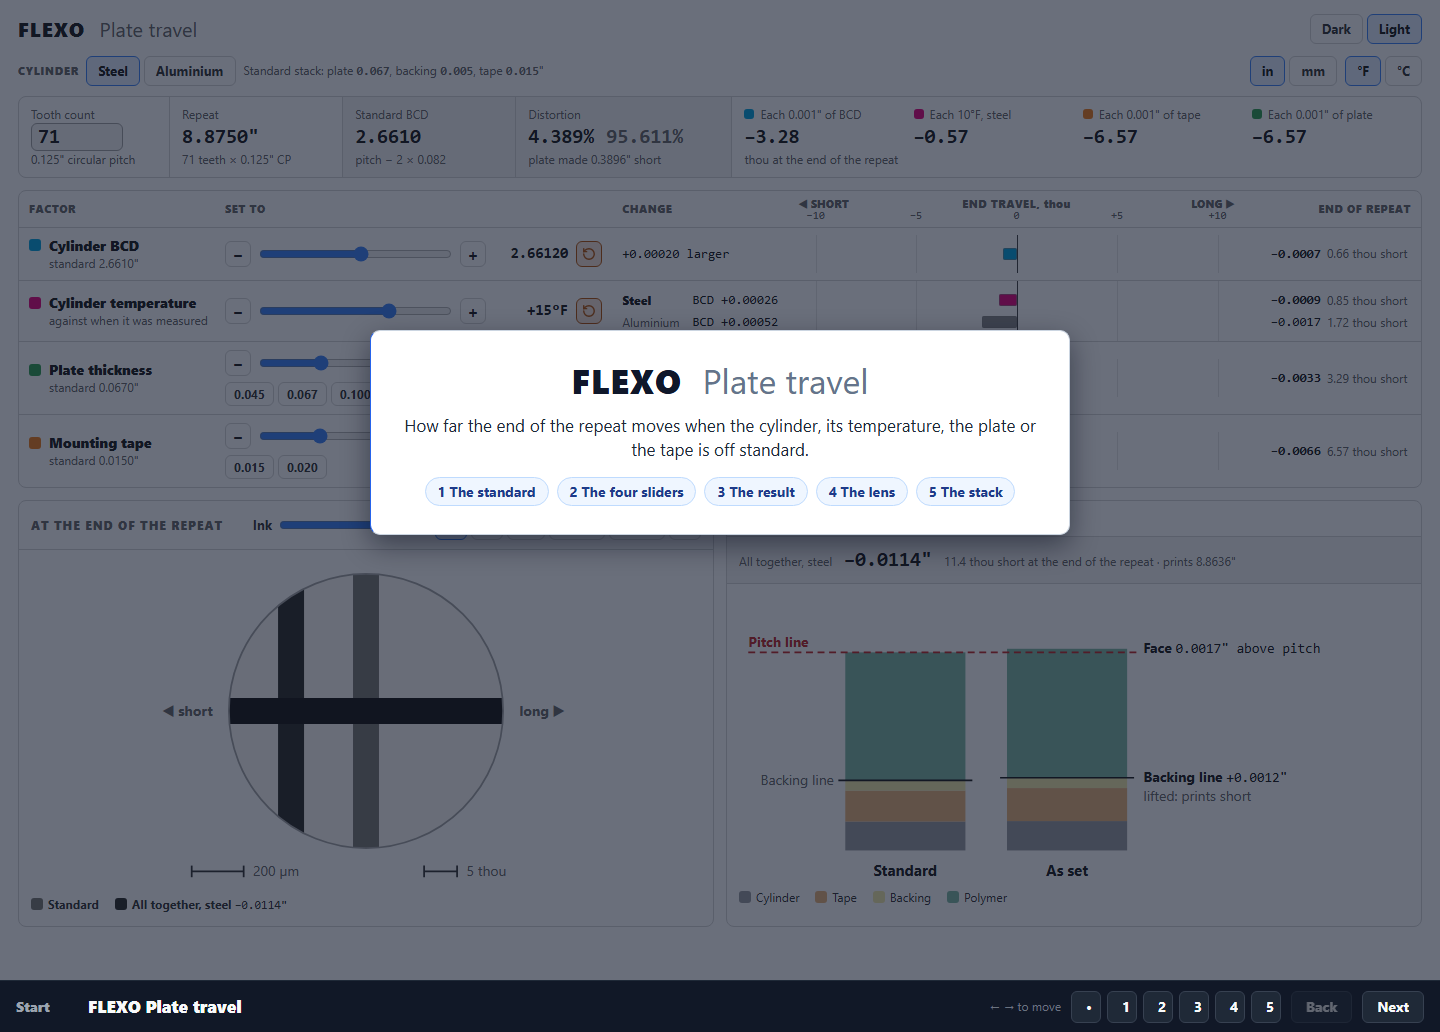
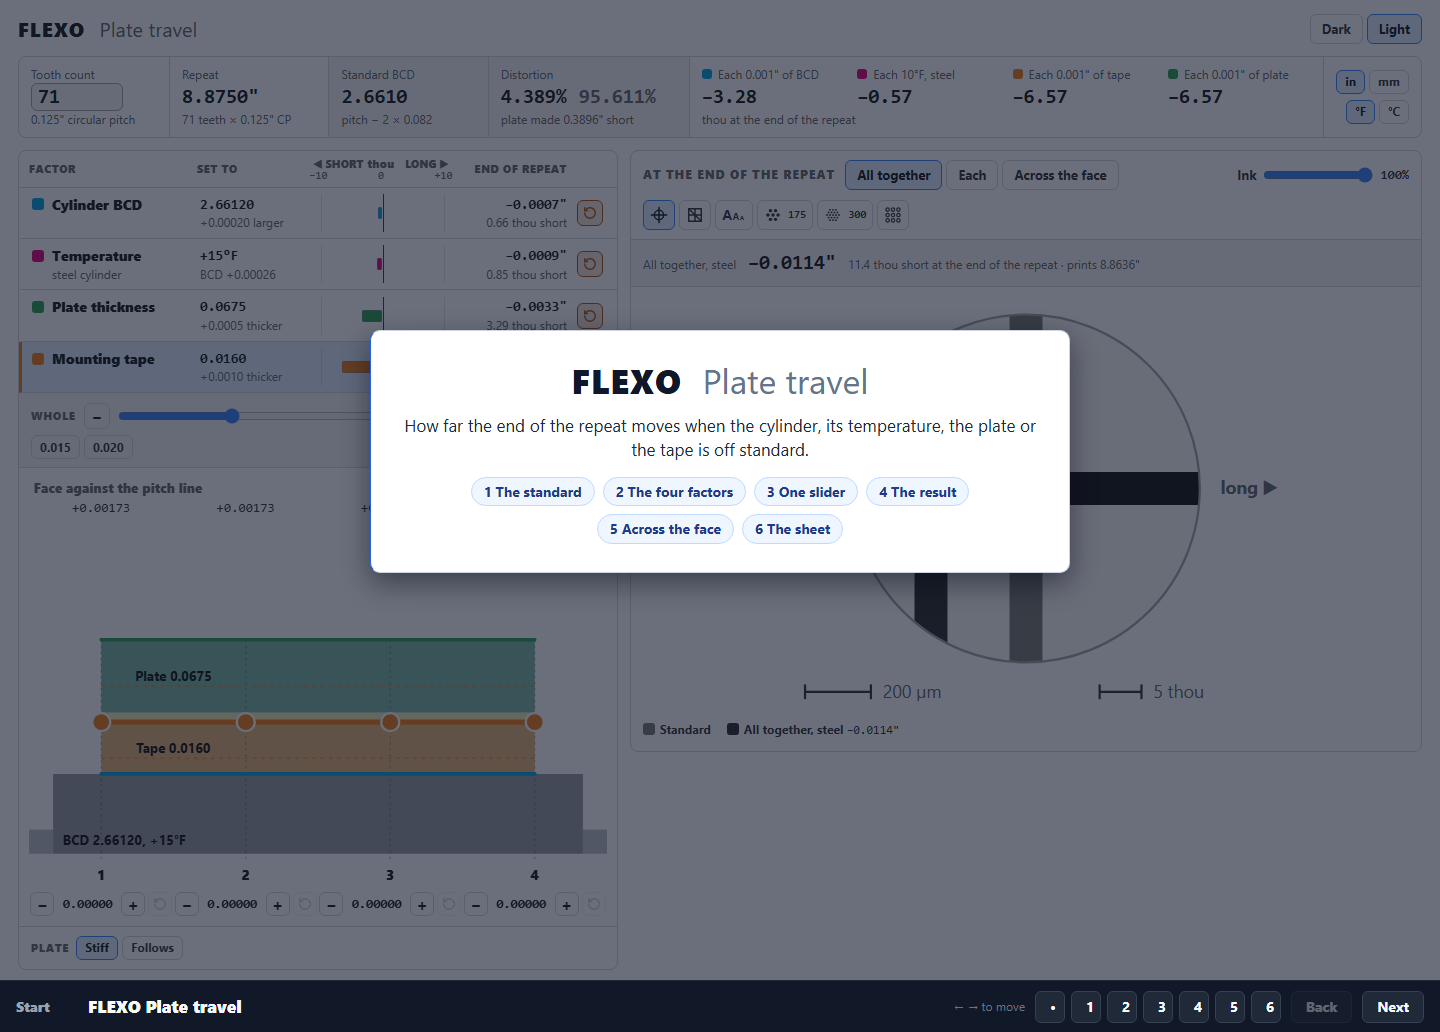
Demo and README for the one-control layout
The demo is reshot on the new simulator: seven stops over two screenshots,
one with the four changes all together and one across the face. The README
describes the factor list, the one slider, the cut through the cylinder and
the three result views, and adds what the across-the-face figures assume.

diff --git a/FLEXO_PLATE_DRIFT_DEMO.html b/FLEXO_PLATE_DRIFT_DEMO.html
@@ -5,16 +5,18 @@
 <title>FLEXO Plate travel: demo</title>
 <meta name="viewport" content="width=device-width, initial-scale=1">
 <style>
-  /* A presentation layer over one screenshot of FLEXO_PLATE_DRIFT.html (light,
-     1440 x 980). Each stop dims the page, leaves one part lit, and explains it
-     in a few bubbles. Everything is placed in the screenshot's own pixels and
-     the whole stage is scaled to fit the window. */
+  /* A presentation layer over two screenshots of FLEXO_PLATE_DRIFT.html (light,
+     1440 x 980): one with the four changes all together, one across the face.
+     Each stop dims the page, leaves one part lit, and explains it in a few
+     bubbles. Everything is placed in the screenshots' own pixels and the whole
+     stage is scaled to fit the window. */
   * { box-sizing: border-box; }
   html, body { height: 100%; }
   body { margin: 0; background: #0b1220; color: #e5e7eb; font: 14px/1.4 "Segoe UI", system-ui, sans-serif; overflow: hidden; }
   #fit { position: absolute; left: 0; right: 0; top: 0; bottom: 52px; }
   #stage { position: absolute; left: 0; top: 0; width: 1440px; height: 980px; transform-origin: 0 0; background: #ffffff; overflow: hidden; }
   #stage img, #stage svg { position: absolute; left: 0; top: 0; width: 1440px; height: 980px; display: block; }
+  #stage img[hidden] { display: none; }
 
   .note { position: absolute; padding: 10px 14px 12px 16px; border-radius: 10px; background: #ffffff; color: #1f2937; border: 1px solid #cbd5e1; border-left: 6px solid var(--c, #2563eb); box-shadow: 0 10px 28px rgba(2, 6, 23, .45); }
   .note h3 { margin: 0 0 3px; font-size: 16px; font-weight: 800; color: #0f172a; }
@@ -43,7 +45,8 @@
 <body>
 <div id="fit">
   <div id="stage">
-    <img src="FLEXO_PLATE_DRIFT_DEMO_files/screen-light.png" alt="FLEXO Plate travel, in light mode, with a 71 tooth example set">
+    <img id="shot-all" src="FLEXO_PLATE_DRIFT_DEMO_files/screen-light.png" alt="FLEXO Plate travel, in light mode, with a 71 tooth example set and the four changes all together">
+    <img id="shot-face" src="FLEXO_PLATE_DRIFT_DEMO_files/screen-face.png" alt="The same example across the face, with the tape 0.001 inch thicker at reading 4" hidden>
     <svg id="veil" viewBox="0 0 1440 980" aria-hidden="true"></svg>
     <div id="notes"></div>
   </div>
@@ -59,7 +62,8 @@
 </div>
 
 <script>
-// Everything is in the screenshot's pixels (1440 x 980).
+// Everything is in the screenshots' pixels (1440 x 980).
+//   face   true for a stop that stands on the across-the-face screenshot
 //   lit    the parts left bright: [x, y, width, height]
 //   notes  the bubbles: where each sits, its colour, and the points it arrows to
 //          (and, rarely, the point an arrow leaves from)
@@ -72,54 +76,70 @@ const STEPS = [
     notes: [{ x: 370, y: 330, w: 700, title: true,
       h: 'FLEXO <span>Plate travel</span>',
       p: 'How far the end of the repeat moves when the cylinder, its temperature, the plate or the tape is off standard.',
-      list: ['1 The standard', '2 The four sliders', '3 The result', '4 The lens', '5 The stack'] }],
+      list: ['1 The standard', '2 The four factors', '3 One slider', '4 The result', '5 Across the face', '6 The sheet'] }],
   },
   {
     name: 'The standard',
-    lit: [[12, 48, 1416, 136]],
+    lit: [[12, 50, 1416, 94]],
     notes: [
-      { x: 30, y: 216, w: 252, h: 'Tooth count', p: 'Type the gear’s tooth count in its box. Teeth × pitch is the repeat: 71 × 0.125" = <b>8.875"</b>.', to: [[140, 170]] },
-      { x: 300, y: 216, w: 270, h: 'Cylinder type', p: 'Steel or aluminium. It decides how much the cylinder grows with heat.', from: [372, 216], to: [[232, 88]] },
-      { x: 610, y: 216, w: 336, h: 'The standard', p: 'The standard plate, backing and tape give the <b>Standard BCD</b>: the bare cylinder that prints the repeat exactly. <b>Distortion</b> is how much shorter the plate is made: 4.389% off, so 95.611% of the repeat.', to: [[452, 140], [702, 140]] },
-      { x: 964, y: 216, w: 440, h: 'What one step is worth', p: 'One box, four figures: one small change of each factor, in thousandths of an inch at the end of the repeat, in the sliders’ colours. <b>Minus prints short.</b>', to: [[1040, 170]] },
+      { x: 30, y: 216, w: 262, h: 'Tooth count', p: 'Type the gear’s tooth count in its box. Teeth × pitch is the repeat: 71 × 0.125" = <b>8.875"</b>.', to: [[94, 138]] },
+      { x: 310, y: 216, w: 350, h: 'The standard', p: 'The standard plate, backing and tape give the <b>Standard BCD</b>: the bare cylinder that prints the repeat exactly. <b>Distortion</b> is how much shorter the plate is made: 4.389% off, so 95.611% of the repeat.', to: [[408, 138], [588, 138]] },
+      { x: 678, y: 216, w: 420, h: 'What one step is worth', p: 'One box, four figures: one small change of each factor, in thousandths of an inch at the end of the repeat, in the factors’ colours. <b>Minus prints short.</b>', to: [[1000, 138]] },
+      { x: 1116, y: 216, w: 296, h: 'Units', p: 'Inches or millimetres, °F or °C. The whole page reads in the units picked here.', to: [[1372, 138]] },
     ],
   },
   {
-    name: 'The four sliders',
-    lit: [[217, 232, 394, 256]],
+    name: 'The four factors',
+    lit: [[12, 144, 612, 255]],
     notes: [
-      { x: 664, y: 132, w: 430, c: BCD, h: 'Cylinder BCD', p: 'The bare cylinder as measured. Larger than standard lifts the plate off centre, so the repeat prints short. Here <b>+0.0002"</b> costs 0.66 thou.', to: [[608, 254]] },
-      { x: 664, y: 256, w: 430, c: TEMP, h: 'Cylinder temperature', p: 'Warmer than when it was measured. Metal grows with heat, aluminium about twice as much as steel. Here <b>+15°F</b> costs 0.85 thou on steel.', to: [[608, 311]] },
-      { x: 664, y: 380, w: 430, c: PLATE, h: 'Plate thickness', p: 'The plate on the cylinder. Art is made short for its plate, so a thicker plate carries shorter art. Here <b>+0.0005"</b> costs 3.29 thou.', to: [[608, 363]] },
-      { x: 664, y: 504, w: 430, c: TAPE, h: 'Mounting tape', p: 'The tape under the plate. Thicker tape lifts the plate just as a larger cylinder does. Here <b>+0.001"</b> costs 6.57 thou.', to: [[608, 436]] },
-      { x: 150, y: 520, w: 400, c: AMBER, h: 'Nudge, jump, reset', p: '<b>−</b> and <b>+</b> move one step. The buttons under a slider jump to common thicknesses. The amber button puts that slider back to standard.', to: [[589, 453]] },
+      { x: 720, y: 120, w: 620, c: BCD, h: 'Cylinder BCD', p: 'The bare cylinder as measured. Larger than standard lifts the plate off centre, so the repeat prints short. Here <b>+0.0002"</b> costs 0.66 thou.', to: [[616, 213]] },
+      { x: 720, y: 218, w: 620, c: TEMP, h: 'Temperature', p: 'Warmer than when it was measured. Metal grows with heat, aluminium about twice as much as steel. Here <b>+15°F</b> costs 0.85 thou on steel.', to: [[616, 264]] },
+      { x: 720, y: 316, w: 620, c: PLATE, h: 'Plate thickness', p: 'The plate on the cylinder. Art is made short for its plate, so a thicker plate carries shorter art. Here <b>+0.0005"</b> costs 3.29 thou.', to: [[616, 316]] },
+      { x: 720, y: 414, w: 620, c: TAPE, h: 'Mounting tape', p: 'The tape under the plate. Thicker tape lifts the plate just as a larger cylinder does. Here <b>+0.001"</b> costs 6.57 thou.', to: [[616, 367]] },
+      { x: 120, y: 450, w: 440, h: 'Reading a row', p: 'What it is set to, then a bar on one scale shared by all four: left of the line prints short, right prints long. Last, how far the end of the repeat lands from where it should.', to: [[248, 394], [382, 394], [518, 394]] },
+    ],
+  },
+  {
+    name: 'One slider',
+    lit: [[12, 337, 612, 136]],
+    notes: [
+      { x: 60, y: 196, w: 400, c: TAPE, h: 'In hand', p: 'Click a row to take that factor in hand. The row lights up and the slider under the list becomes its slider. Here it is the tape.', to: [[104, 341]] },
+      { x: 664, y: 300, w: 440, c: AMBER, h: 'Reset', p: 'The amber button at the end of a row puts that factor back to standard, across the face as well.', to: [[607, 367]] },
+      { x: 120, y: 520, w: 460, h: 'One slider, with jumps', p: '<b>−</b> and <b>+</b> move one step. The buttons under the slider jump to common thicknesses. With temperature in hand they pick steel or aluminium.', to: [[82, 464], [303, 432]] },
     ],
   },
   {
     name: 'The result',
-    lit: [[604, 188, 826, 302]],
+    lit: [[624, 144, 804, 614]],
     notes: [
-      { x: 170, y: 236, w: 380, h: 'Change', p: 'What the slider did against standard: how much larger, warmer or thicker. Temperature shows both metals; the bold one is the cylinder type chosen.', to: [[610, 311]] },
-      { x: 640, y: 522, w: 400, h: 'One scale for all four', p: 'Every bar shares the scale above. Left of the line prints short, right prints long. The longest bar is the biggest mover: here, the tape.', to: [[951, 464]] },
-      { x: 1070, y: 522, w: 345, h: 'End of repeat', p: 'The travel in inches, then in thousandths: how far the end of the repeat lands from where it should.', to: [[1330, 476]] },
+      { x: 770, y: 24, w: 430, h: 'Three views', p: '<b>All together</b> is the four changes at once. <b>Each</b> shows them one at a time, in their colours. <b>Across the face</b> comes next.', to: [[980, 159]] },
+      { x: 150, y: 150, w: 420, h: 'Test patterns', p: 'Six targets to read the travel on: crosshair, register mark, micro print, two rosettes and micro circles. <b>Ink</b> fades the black so the standard shows through.', to: [[640, 215]] },
+      { x: 150, y: 290, w: 420, h: 'All together', p: 'The four changes at once, for the cylinder type chosen. This repeat prints <b>8.8636"</b> where 8.8750" was wanted.', from: [570, 318], to: [[640, 264]] },
+      { x: 150, y: 420, w: 420, h: 'Under the glass', p: '<b>Grey</b> is where the mark should land. <b>Black</b> is where it lands with all four changes together: 11.4 thou short here.', to: [[912, 420]] },
+      { x: 900, y: 790, w: 430, h: 'Scale', p: 'The two bars under the lens give its scale. On a rosette the lens splits: standard on the left, as set on the right.', to: [[1120, 706]] },
     ],
   },
   {
-    name: 'The lens',
-    lit: [[14, 496, 704, 435]],
+    name: 'Across the face',
+    face: true,
+    lit: [[12, 462, 612, 512]],
     notes: [
-      { x: 762, y: 512, w: 430, h: 'Test patterns', p: 'Six targets to read the travel on: crosshair, register mark, micro print, two rosettes and micro circles. <b>Ink</b> fades the black so the standard shows through.', to: [[705, 525]] },
-      { x: 762, y: 660, w: 430, h: 'Under the glass', p: '<b>Grey</b> is where the mark should land. <b>Black</b> is where it lands with all four changes together: 11.4 thou short here.', to: [[484, 638]] },
-      { x: 762, y: 800, w: 430, h: 'Scale', p: 'The two bars under the lens give its scale. On a rosette the lens splits: standard on the left, as set on the right.', to: [[516, 871]] },
+      { x: 60, y: 318, w: 440, h: 'Face against the pitch line', p: 'How far the plate’s face stands off the gear’s pitch line at each of four readings across the cylinder.', to: [[118, 478]] },
+      { x: 664, y: 440, w: 470, c: PLATE, h: 'A cut through the cylinder', p: 'Cylinder, tape and plate, each with a strip in its own colour. Click a strip to take that layer in hand.', to: [[542, 630]] },
+      { x: 664, y: 548, w: 470, c: TAPE, h: 'Four readings', p: 'Drag a point to make the layer thicker or thinner there. The dashed rails are as far as a point goes. Here the tape is <b>0.001" thicker at reading 4</b>.', to: [[548, 710]] },
+      { x: 664, y: 690, w: 470, c: AMBER, h: 'Under each reading', p: '<b>−</b> and <b>+</b> move that reading one step. The amber button puts that one reading back.', to: [[611, 904]] },
+      { x: 720, y: 850, w: 620, h: 'Stiff or follows', p: 'A <b>stiff</b> plate will not stretch: it sits on the straight taper through the four readings and walks sideways. A plate that <b>follows</b> prints each reading at its own length. A real plate lies between the two.', to: [[188, 948]] },
     ],
   },
   {
-    name: 'The stack',
-    lit: [[722, 496, 704, 435]],
+    name: 'The sheet',
+    face: true,
+    lit: [[624, 144, 804, 729]],
     notes: [
-      { x: 240, y: 512, w: 430, h: 'All together', p: 'The four changes at once, for the cylinder type chosen. This repeat prints <b>8.8636"</b> where 8.8750" was wanted.', to: [[730, 561]] },
-      { x: 240, y: 640, w: 430, h: 'The pitch line', p: 'The dashed line is the gear’s pitch line. The standard face sits on it; here the face is 0.0017" above.', to: [[746, 652]] },
-      { x: 240, y: 762, w: 430, h: 'The backing line', p: 'The art keeps its length at the plate’s backing. Lift that line off centre and each turn of the gear lays down less of it, so the print comes up short.', to: [[756, 780]] },
+      { x: 760, y: 24, w: 430, h: 'Plate width', p: 'How wide the plate is across the cylinder. The four readings are spread evenly from one edge of it to the other.', to: [[1213, 213]] },
+      { x: 140, y: 196, w: 440, h: 'Four figures', p: 'How far out of square the tail edge is, how much the diagonals differ, how much the tail edge bows, and how far the tail has walked sideways: here <b>1.84 thou toward side 4</b>.', to: [[633, 275]] },
+      { x: 140, y: 372, w: 440, h: 'Corner lenses', p: 'A lens at each corner of the plate. It is laid down at the lead edge, so the lead corners show no travel. The tail corners show it both ways: along the web and sideways.', to: [[658, 442]] },
+      { x: 140, y: 528, w: 440, h: 'The sheet', p: 'The plate laid flat, lead edge on the left, standard in grey and as set in black. The figures at the tail are thou short at each reading. The travel is drawn <b>×100</b> so it can be seen.', to: [[848, 558]] },
     ],
   },
 ];
@@ -140,6 +160,8 @@ const edgePoint = (r, [tx, ty]) => {
 
 const show = () => {
   const s = STEPS[step];
+  $('shot-all').hidden = Boolean(s.face);
+  $('shot-face').hidden = !s.face;
   $('notes').innerHTML = s.notes.map((n, i) => `<div class="note${n.title ? ' title' : ''}" data-i="${i}" style="left:${n.x}px;top:${n.y}px;width:${n.w}px;--c:${n.c || BLUE}"><h3>${n.h}</h3><p>${n.p}</p>${n.list ? `<ol>${n.list.map(t => `<li>${t}</li>`).join('')}</ol>` : ''}</div>`).join('');
   // The arrows start from the bubbles as laid out, so they are drawn after the text.
   let arrows = '';

diff --git a/README.md b/README.md
@@ -1,37 +1,52 @@
 # FLEXO Plate travel
 
-A one-file simulator of how far the end of a flexo print repeat moves when the plate cylinder, its temperature, the plate or the mounting tape is off the standard.
+A one-file simulator of how far the end of a flexo print repeat moves when the plate cylinder, its temperature, the plate or the mounting tape is off the standard, as a whole or at four readings across the face.
 
 - **Simulator:** [FLEXO_PLATE_DRIFT.html](https://magicphase.github.io/Flexo_Drift_Sim/FLEXO_PLATE_DRIFT.html)
 - **Demo walkthrough:** [FLEXO_PLATE_DRIFT_DEMO.html](https://magicphase.github.io/Flexo_Drift_Sim/FLEXO_PLATE_DRIFT_DEMO.html)
 
-![The four sliders, explained](FLEXO_PLATE_DRIFT_DEMO_files/slide-2.png)
+![The four factors, explained](FLEXO_PLATE_DRIFT_DEMO_files/slide-2.png)
 
 ## The simulator
 
-Type a tooth count, pick steel or aluminium, and move four sliders:
+Type a tooth count. The top row gives the repeat, the standard BCD, the distortion (how much shorter the plate is made, and what is left of the repeat), what a small step of each factor is worth, and the units the page reads in: inches or millimetres, °F or °C.
 
-| Slider | What it is |
+Everything is set on the left and shown on the right.
+
+### On the left: one place to set things
+
+Four factors, each a row in its own colour:
+
+| Factor | What it is |
 | --- | --- |
 | Cylinder BCD | The bare cylinder diameter as measured, against the standard BCD |
-| Cylinder temperature | How much warmer or colder the cylinder runs than when it was measured |
+| Temperature | How much warmer or colder the cylinder runs than when it was measured |
 | Plate thickness | The plate on the cylinder |
 | Mounting tape | The tape under the plate |
 
-The top row has the tooth count in a box of its own, then the repeat, the standard BCD, the distortion (how much shorter the plate is made, and what is left of the repeat), and one box for what a small step of each of the four factors is worth.
+Each row shows what the factor is set to, a bar on one shared short / long scale, and the travel at the end of the repeat in inches and thousandths (or millimetres and micrometres). The amber button at the end of a row puts that factor back to standard.
 
-Each row shows the change, a bar on one shared short / long scale, and the travel at the end of the repeat in inches and thousandths (or millimetres and micrometres). Each slider has its own reset button. Below the rows:
+Click a row to take that factor in hand. Under the list:
 
-- **At the end of the repeat:** a magnified view with the standard in grey and the four changes together in black, in six test patterns. On the two rosettes the view splits: standard on the left, as set on the right.
-- **The stack:** the standard build-up beside the one as set, drawn to scale, with the four changes together as one figure.
+- **One slider** moves the factor in hand as a whole. The buttons under it jump to common thicknesses, or pick steel or aluminium when temperature is in hand.
+- **A cut through the cylinder** shows the cylinder, the tape and the plate with four readings across the face. Drag a point, or use the steppers under it, to make the BCD, the tape or the plate differ at that reading. Click a layer's colour strip to take that layer in hand.
+- **Plate: Stiff | Follows** chooses how the plate takes those differences (see below).
+
+### On the right: at the end of the repeat
+
+Three views, in six test patterns:
+
+- **All together:** a magnified view with the standard in grey and the four changes together in black. On the two rosettes the view splits: standard on the left, as set on the right.
+- **Each:** four lenses, one factor alone in each, in its own colour and all at one scale.
+- **Across the face:** the plate laid flat with a lens at each corner, and four figures: out of square, the difference between the diagonals, the bow of the tail edge and how far the tail has moved sideways. The plate width is typed here.
 
 It is a single HTML file with nothing to install. It loads nothing and saves nothing. Add `#example` to the address to open it with a small example set, or `#light` for the light theme.
 
 ## The demo
 
-Six stops over a light screenshot of the simulator: the page dims, one part stays lit, and a few bubbles explain it. Move with the ← → keys, the Back and Next buttons, or the numbered dots. The same six stops are in `FLEXO_PLATE_DRIFT_DEMO_files/` as images, `slide-0.png` to `slide-5.png`.
+Seven stops over two light screenshots of the simulator: the page dims, one part stays lit, and a few bubbles explain it. Move with the ← → keys, the Back and Next buttons, or the numbered dots. The same seven stops are in `FLEXO_PLATE_DRIFT_DEMO_files/` as images, `slide-0.png` to `slide-6.png`.
 
-The demo is a picture of the simulator, not the simulator: its sliders do not move.
+The demo is a picture of the simulator, not the simulator: nothing in it moves.
 
 ## What the figures assume
 
@@ -39,5 +54,7 @@ The demo is a picture of the simulator, not the simulator: its sliders do not mo
 - **The standard stack** is a 0.067" plate with a 0.005" backing on 0.015" tape. The standard BCD is the cylinder diameter that puts that plate's face on the gear's pitch line.
 - **Art made for the plate in use.** A thicker plate carries shorter art, so on a cylinder cut for the standard plate it prints short.
 - **Only the cylinder grows with heat:** 6.5 × 10⁻⁶ per °F for steel and 13.1 × 10⁻⁶ per °F for aluminium.
+- **Four readings, evenly spaced** from one edge of the plate to the other. A thicker spot in the plate counts at its reading the way a thicker plate does.
+- **Stiff and Follows are the two limits.** A plate that follows prints each reading at its own length, so the tail edge bends and nothing moves sideways. A stiff plate will not stretch: it sits on the straight taper through the four readings and, laid square at the lead edge, walks toward the large end by the tail. A real plate lies between the two. No stiffness figure is used.
 
-These are a model for showing which factor matters most, not a measurement of any press.
+These are a model for showing which factor matters most, not a measurement of any press. The across-the-face figures are the model's own geometry and have not been checked on a press.
